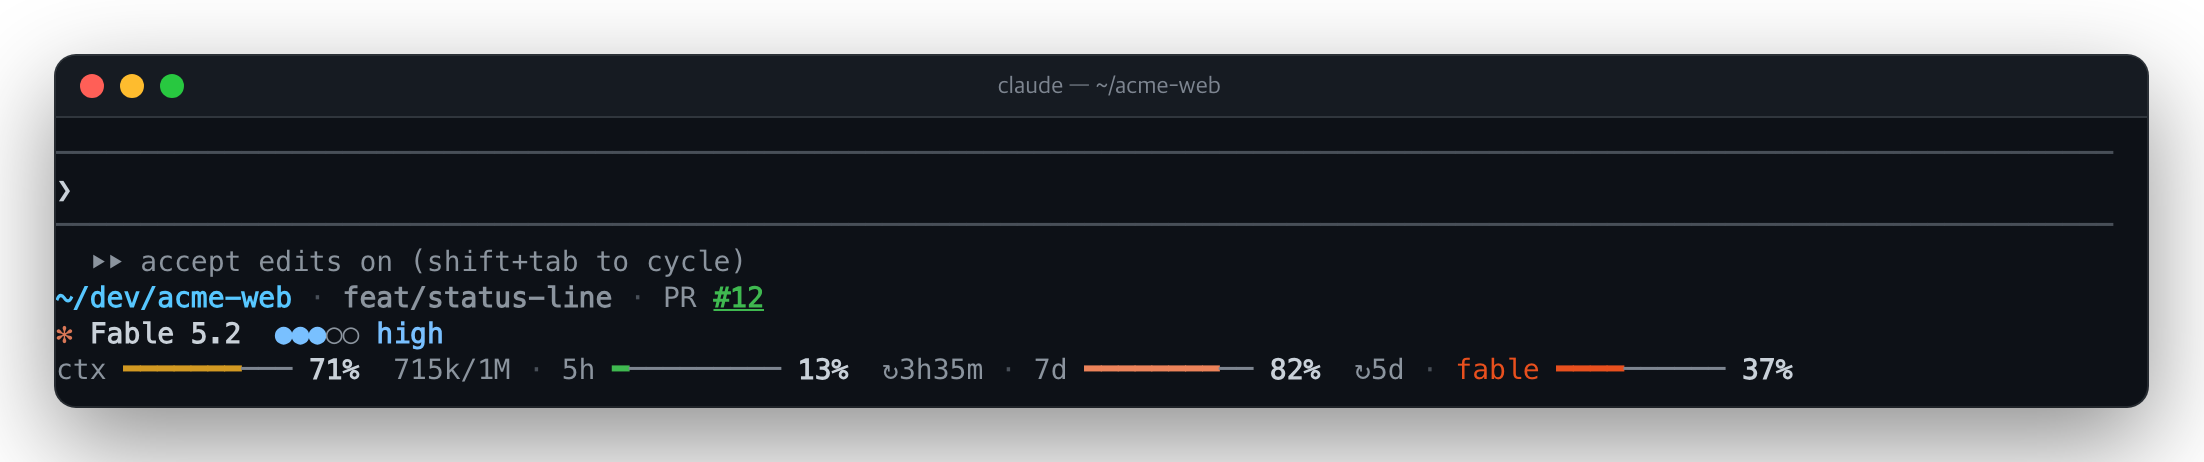
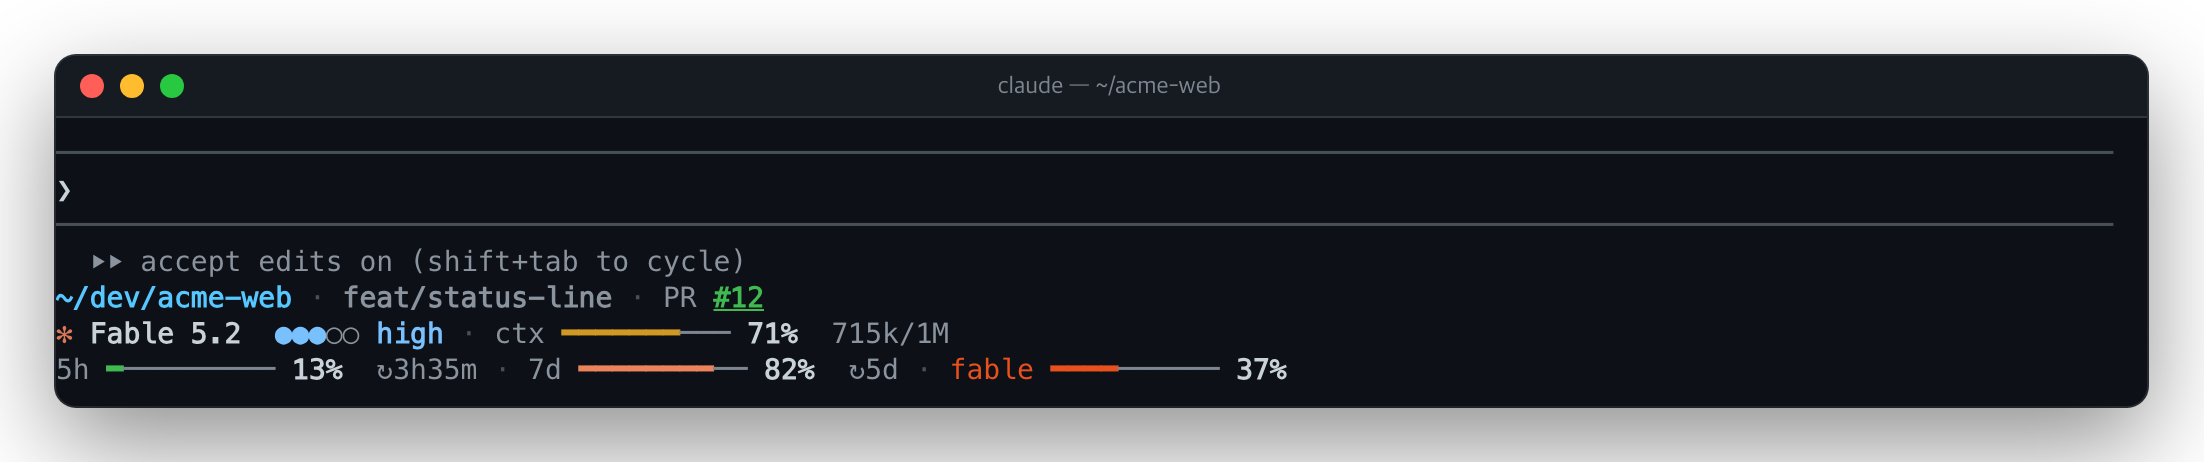
feat(status-line): the context meter beside the model and effort (0.2.0)
The model row now carries the context window; the plan's limits (five-hour,
weekly, Fable) stack under it. As the width narrows the context meter is drawn
shorter, then without its tokens, and with no room beside the model it leads
the limits below.

Changed region(s): [[0.0309, 0.697, 0.833, 0.8182]]

diff --git a/mods/status-line/tests/status-line.test.tsx b/mods/status-line/tests/status-line.test.tsx
@@ -24,9 +24,9 @@ const OID = '1234567890abcdef1234567890abcdef12345678'
 const PR_URL = 'https://github.com/acme/acme-web/pull/12'
 
 const LIMITS = '5h ━━━─────── 28%  ↻2h13m · 7d ━━━━────── 42%  ↻3d'
-const HEAD_ROW = '✻ Opus 5.5  effort ?'
 const CONTEXT = 'ctx ━━──────── 23%  46k/200k'
-const METERS_ROW = `${CONTEXT} · ${LIMITS}`
+const HEAD_ROW = `✻ Opus 5.5  effort ? · ${CONTEXT}`
+const METERS_ROW = LIMITS
 const FEATURE_STATUS = [
   `# branch.oid ${OID}`,
   '# branch.head feature/bar',
@@ -182,15 +182,15 @@ describe('the line under the prompt', () => {
     const { clock } = setUp(on, { settings: { effortLevel: 'medium' } })
     await $.session.start(START)
     await clock.settle()
-    expect((await rows($))[0]).toBe('✻ Opus 5.5  ●●○○○ medium')
+    expect((await rows($))[0]).toStartWith('✻ Opus 5.5  ●●○○○ medium · ctx ')
 
     await step($, { effort: 'max' })
     await clock.settle()
-    expect((await rows($))[0]).toBe('✻ Opus 5.5  ●●●●● max')
+    expect((await rows($))[0]).toStartWith('✻ Opus 5.5  ●●●●● max · ctx ')
 
     await step($, { effort: 'low', agentId: 'sub-1' })
     await clock.settle()
-    expect((await rows($))[0]).toBe('✻ Opus 5.5  ●●●●● max')
+    expect((await rows($))[0]).toStartWith('✻ Opus 5.5  ●●●●● max · ctx ')
   })
 
   test('the line /effort leaves shows before the next request', async ($, on) => {
@@ -207,7 +207,7 @@ describe('the line under the prompt', () => {
       uuid: 'row-effort',
     })
     await clock.settle()
-    expect((await rows($))[0]).toBe('✻ Opus 5.5  ●●●○○ high')
+    expect((await rows($))[0]).toStartWith('✻ Opus 5.5  ●●●○○ high · ctx ')
   })
 
   test('a new measurement moves the bars', async ($, on) => {
@@ -217,7 +217,7 @@ describe('the line under the prompt', () => {
     world.usage = usageOf(184_000)
     await $.session.measure({ context: world.usage.context, rateLimits: world.usage.rateLimits, changed: ['context'] })
     await clock.settle()
-    expect((await rows($))[1]).toStartWith('ctx ━━━━━━━━━─ 92% !  184k/200k · ')
+    expect((await rows($))[0]).toEndWith(' · ctx ━━━━━━━━━─ 92% !  184k/200k')
   })
 
   test('the countdown moves as minutes pass', async ($, on) => {
@@ -248,19 +248,18 @@ describe('the line under the prompt', () => {
     expect(await rows($)).toEqual([HEAD_ROW, METERS_ROW])
   })
 
-  test('the meters take more rows as the width narrows, and never overflow', async ($, on) => {
+  test('the rows give way as the width narrows, and never overflow', async ($, on) => {
     const { clock } = setUp(on)
     await $.session.start(START)
     await clock.settle()
-    // One row is kept as long as it can be: shorter bars first, then the detail goes.
-    expect(await rows($, { columns: 70 })).toEqual([HEAD_ROW, 'ctx ━───── 23%  46k/200k · 5h ━━──── 28%  ↻2h13m · 7d ━━━─── 42%  ↻3d'])
-    expect(await rows($, { columns: 60 })).toEqual([HEAD_ROW, 'ctx ━───── 23% · 5h ━━──── 28% · 7d ━━━─── 42%'])
-    expect(await rows($, { columns: 44 })).toEqual([HEAD_ROW, 'ctx ━─── 23% · 5h ━─── 28% · 7d ━━── 42%'])
-    // Then two rows.
-    expect(await rows($, { columns: 36 })).toEqual([HEAD_ROW, 'ctx ━───── 23% · 5h ━━──── 28%', '7d ━━━─── 42%'])
-    // Then a row for each meter.
-    expect(await rows($, { columns: 20 })).toEqual([HEAD_ROW, 'ctx ━───── 23%', '5h ━━──── 28%', '7d ━━━─── 42%'])
-    for (const columns of [50, 40, 30, 24, 20]) {
+    const MODEL = '✻ Opus 5.5  effort ?'
+    // The context meter stays beside the model while any drawing of it fits: shorter, then without its detail.
+    expect(await rows($, { columns: 70 })).toEqual([HEAD_ROW, LIMITS])
+    expect(await rows($, { columns: 40 })).toEqual([`${MODEL} · ctx ━───── 23%`, '5h ━━──── 28% · 7d ━━━─── 42%'])
+    // With no room beside the model it leads the meters below.
+    expect(await rows($, { columns: 30 })).toEqual([MODEL, 'ctx ━───── 23% · 5h ━━──── 28%', '7d ━━━─── 42%'])
+    expect(await rows($, { columns: 20 })).toEqual([MODEL, 'ctx ━───── 23%', '5h ━━──── 28%', '7d ━━━─── 42%'])
+    for (const columns of [70, 50, 40, 30, 24, 20]) {
       for (const row of await rows($, { columns })) expect(textWidth(row)).toBeLessThanOrEqual(columns)
     }
   })
@@ -271,7 +270,7 @@ describe('the line under the prompt', () => {
     await clock.settle()
     for (const surface of ['mobile', 'vscode'] as const) {
       const drawnRows = await rows($, { surface, columns: 36 })
-      expect(drawnRows).toEqual(['~/dev/acme-web · feature/a-long-bra…', HEAD_ROW, 'ctx ━───── 23% · 5h ━━──── 28%', '7d ━━━─── 42%'])
+      expect(drawnRows).toEqual(['~/dev/acme-web · feature/a-long-bra…', '✻ Opus 5.5  effort ? · ctx ━─── 23%', '5h ━━──── 28% · 7d ━━━─── 42%'])
       for (const row of drawnRows) expect(textWidth(row)).toBeLessThanOrEqual(36)
     }
     const tree = JSON.stringify(await drawn($, { surface: 'mobile', columns: 36 }))
@@ -500,7 +499,7 @@ describe('parts', () => {
 
   test('a session with no limits and no reading yet still draws', async () => {
     const usage: Usage = { model: 'claude-fable-5-2', context: { window: 1_000_000 }, minute: 0 }
-    expect(usageRows(usage, { kind: 'none' }, undefined, 120, NOW).map(rowText)).toEqual(['✻ Fable 5.2', 'ctx ────────── —  —/1M'])
+    expect(usageRows(usage, { kind: 'none' }, undefined, 120, NOW).map(rowText)).toEqual(['✻ Fable 5.2 · ctx ────────── —  —/1M'])
   })
 
   test('formats', async () => {

diff --git a/mods/status-line/hooks/layout.ts b/mods/status-line/hooks/layout.ts
@@ -1,5 +1,5 @@
-// The rows under the prompt as runs of styled text: a git row, the model and its effort, then the
-// meters, which take more rows as the surface narrows.
+// The rows under the prompt as runs of styled text: a git row, the model with its effort and context
+// window, then the plan's limits, which take more rows as the surface narrows.
 import type { Effort, Git, LimitWindow, PullRequest, Usage } from '../types'
 import { EFFORT_LEVELS } from './effort'
 import type { ResetStyle } from './format'
@@ -102,9 +102,18 @@ function pack(meters: readonly Span[][], columns: number): Span[][] {
 
 const fits = (rows: readonly Span[][], columns: number) => rows.every(row => rowWidth(row) <= columns)
 
-// The model and its effort on a row of their own, the meters stacked under it. The meters take as few
-// rows as the width allows, and among those the widest drawing: one row with long bars on a wide
-// terminal, down to a short bar per row on a phone.
+// Meters in as few rows as the width allows and, among those, the widest drawing.
+function stack(meters: readonly Meter[], columns: number): Span[][] {
+  if (meters.length === 0) return []
+  const packings = VARIANTS.map(variant => pack(meters.map(meter => meterSpans(meter, variant)), columns))
+  const fitting = packings.filter(rows => fits(rows, columns))
+  const fewest = Math.min(...fitting.map(rows => rows.length))
+  return fitting.find(rows => rows.length === fewest) ?? packings.at(-1) ?? []
+}
+
+// The model, its effort and the context window on one row, the plan's limits stacked under it: one
+// row with long bars on a wide terminal, down to a short bar per row on a phone. Where the context
+// meter does not fit beside the model in any drawing, it leads the meters below.
 export function usageRows(
   usage: Usage,
   effort: Effort,
@@ -112,17 +121,15 @@ export function usageRows(
   columns: number,
   now: number,
 ): Span[][] {
-  const head = [span(`${T.mark} `, { color: T.brand }), span(prettyModel(usage.model), { weight: 'bold' }), ...effortSpans(effort)]
-  const meters = [
-    contextMeter(usage.context),
+  const model = [span(`${T.mark} `, { color: T.brand }), span(prettyModel(usage.model), { weight: 'bold' }), ...effortSpans(effort)]
+  const context = contextMeter(usage.context)
+  const limits = [
     ...(usage.fiveHour ? [limitMeter('5h', usage.fiveHour, now, 'minutes')] : []),
     ...(usage.sevenDay ? [limitMeter('7d', usage.sevenDay, now, 'hours')] : []),
     ...(fable ? [fableMeter(fable, usage.sevenDay, now)] : []),
   ]
-  const packings = VARIANTS.map(variant => pack(meters.map(meter => meterSpans(meter, variant)), columns))
-  const fitting = packings.filter(rows => fits(rows, columns))
-  const fewest = Math.min(...fitting.map(rows => rows.length))
-  return [head, ...(fitting.find(rows => rows.length === fewest) ?? packings.at(-1) ?? [])]
+  const head = VARIANTS.map(variant => join([model, meterSpans(context, variant)])).find(row => rowWidth(row) <= columns)
+  return head === undefined ? [model, ...stack([context, ...limits], columns)] : [head, ...stack(limits, columns)]
 }
 
 // Only the number carries the state's color; the whole of it opens the pull request.

diff --git a/mods/status-line/hooks/register.tsx b/mods/status-line/hooks/register.tsx
@@ -1,6 +1,6 @@
 // status-line: a status line under the prompt.
-//   Below the engine's own hint line it draws a git row (path · branch · pull request) and a usage
-//   row (model and effort, the context window, the five-hour and weekly plan limits, Fable's own),
+//   Below the engine's own hint line it draws a git row (path · branch · pull request), a model row
+//   (model, effort and the context window) and the plan's limits under it (five-hour, weekly, Fable's own),
 //   each limit as a bar whose color follows what is left. The rows fold as the terminal narrows.
 //   Figures come from the engine ($.session.usage), the repository from git, the pull request from gh,
 //   the Fable limit from the plan's usage endpoint.

diff --git a/mods/status-line/README.en.md b/mods/status-line/README.en.md
@@ -12,9 +12,9 @@ limits is used, always in view.
 ```
   ⏵⏵ accept edits on (shift+tab to cycle)            ← Claude Code's own hint line (kept)
   ~/dev/acme-web · feat/status-line · PR #12         ← git row
-  ✻ Fable 5.2  ●●●○○ high                            ← model row
-  ctx ━━━━━━━─── 71%  715k/1M · 5h ━───────── 13%  ↻3h35m · 7d ━━━━━━━━── 82%  ↻5d · fable ━━━━────── 37%
-                                                     ← meter row
+  ✻ Fable 5.2  ●●●○○ high · ctx ━━━━━━━─── 71%  715k/1M        ← model row
+  5h ━───────── 13%  ↻3h35m · 7d ━━━━━━━━── 82%  ↻5d · fable ━━━━────── 37%
+                                                     ← limits row
 ```
 
 | Row | Item | What it is |
@@ -23,9 +23,9 @@ limits is used, always in view.
 | git | branch | `(commit)` on a detached HEAD; an operation under way (a rebase, a merge, ...) as `(REBASING)` |
 | git | pull request | The branch's pull request number; its color is the state, and pressing it opens the page |
 | model | model, effort | The model's name and its effort on five steps (`●●●○○ high`) |
-| meter | `ctx` | The context window's fill, and `tokens used/window size` |
-| meter | `5h`, `7d` | The five-hour and weekly limits, with the time to their reset (`↻3h35m`) |
-| meter | `fable` | The Fable-only weekly limit, while the model is Fable |
+| model | `ctx` | The context window's fill, and `tokens used/window size` |
+| limits | `5h`, `7d` | The five-hour and weekly limits, with the time to their reset (`↻3h35m`) |
+| limits | `fable` | The Fable-only weekly limit, while the model is Fable |
 
 Outside a repository there is no git row.
 
@@ -38,14 +38,14 @@ Outside a repository there is no git row.
 
 ### Fitted to the width
 
-The meters stack under the model row, in as few rows as the width allows and, among those, the widest drawing.
+The limits stack under the model row, in as few rows as the width allows and, among those, the widest drawing.
 
-| Width | Meters |
-| --- | --- |
-| Wide | one row, long bars with their detail (tokens, time left) |
-| Narrower | one row with shorter bars, then without the detail |
-| Narrow | two rows |
-| Very narrow | a row per meter |
+| Width | `ctx` on the model row | Limits |
+| --- | --- | --- |
+| Wide | a long bar with the tokens | one row, long bars with the time left |
+| Narrower | a shorter bar, then without the tokens | one row with shorter bars, then without the time left |
+| Narrow | with no room beside the model, it leads the limits | two rows |
+| Very narrow | the same | a row per meter |
 
 The git row cuts the branch name, then the start of the path (`…/acme-web`), and drops the pull request last. Hangul
 counts two cells.

diff --git a/mods/status-line/README.md b/mods/status-line/README.md
@@ -11,9 +11,9 @@
 ```
   ⏵⏵ accept edits on (shift+tab to cycle)            ← Claude Code의 힌트 줄 (그대로)
   ~/dev/acme-web · feat/status-line · PR #12         ← git 줄
-  ✻ Fable 5.2  ●●●○○ high                            ← 모델 줄
-  ctx ━━━━━━━─── 71%  715k/1M · 5h ━───────── 13%  ↻3h35m · 7d ━━━━━━━━── 82%  ↻5d · fable ━━━━────── 37%
-                                                     ← 미터 줄
+  ✻ Fable 5.2  ●●●○○ high · ctx ━━━━━━━─── 71%  715k/1M        ← 모델 줄
+  5h ━───────── 13%  ↻3h35m · 7d ━━━━━━━━── 82%  ↻5d · fable ━━━━────── 37%
+                                                     ← 한도 줄
 ```
 
 | 줄 | 항목 | 설명 |
@@ -22,9 +22,9 @@
 | git | 브랜치 | HEAD가 떨어지면 `(커밋)`, 리베이스 · 병합 등 진행 중이면 `(REBASING)`처럼 표시 |
 | git | PR | 브랜치의 PR 번호. 색이 상태이고, 누르면 브라우저에서 열림 |
 | 모델 | 모델 · effort | 모델 이름과 effort 5단계(`●●●○○ high`) |
-| 미터 | `ctx` | 컨텍스트 사용률과 `쓴 토큰/창 크기` |
-| 미터 | `5h` · `7d` | 5시간 · 주간 한도 사용률과 초기화까지 남은 시간(`↻3h35m`) |
-| 미터 | `fable` | Fable 전용 주간 한도. 모델이 Fable일 때만 |
+| 모델 | `ctx` | 컨텍스트 사용률과 `쓴 토큰/창 크기` |
+| 한도 | `5h` · `7d` | 5시간 · 주간 한도 사용률과 초기화까지 남은 시간(`↻3h35m`) |
+| 한도 | `fable` | Fable 전용 주간 한도. 모델이 Fable일 때만 |
 
 저장소 밖에서는 git 줄이 없어요.
 
@@ -37,14 +37,14 @@
 
 ### 폭에 맞는 배치
 
-모델 줄 아래에 미터가 쌓입니다. 미터는 폭이 허락하는 가장 적은 줄 수로, 그 안에서 가장 넓게 그려요.
+모델 줄 아래에 한도 미터가 쌓입니다. 한도는 폭이 허락하는 가장 적은 줄 수로, 그 안에서 가장 넓게 그려요.
 
-| 폭 | 미터 |
-| --- | --- |
-| 넓음 | 한 줄에 긴 바와 상세(토큰 · 남은 시간) |
-| 조금 좁음 | 한 줄에 짧은 바, 그다음엔 상세를 뺌 |
-| 좁음 | 두 줄 |
-| 아주 좁음 | 미터마다 한 줄 |
+| 폭 | 모델 줄의 `ctx` | 한도 줄 |
+| --- | --- | --- |
+| 넓음 | 긴 바와 토큰 수 | 한 줄에 긴 바와 남은 시간 |
+| 조금 좁음 | 짧은 바, 그다음엔 토큰 수를 뺌 | 한 줄에 짧은 바, 그다음엔 남은 시간을 뺌 |
+| 좁음 | 모델 옆에 자리가 없으면 한도 줄 맨 앞으로 | 두 줄 |
+| 아주 좁음 | 〃 | 미터마다 한 줄 |
 
 git 줄은 브랜치 이름, 경로 앞부분(`…/acme-web`) 순으로 줄이고 마지막에 PR을 뺍니다. 한글은 2칸으로 계산해요.
 

diff --git a/README.md b/README.md
@@ -154,9 +154,9 @@ claude plugin install status-line@ray-claude-code-mods
 
 <img src="images/status-line.png" alt="status-line" width="100%">
 
-- **모델 줄과 미터**: 모델과 effort, 그 아래 컨텍스트 · 5시간 · 주간 · Fable 한도를 남은 양에 따라 색이 바뀌는 바로.
+- **모델 줄과 한도**: 모델 · effort · 컨텍스트가 한 줄, 그 아래 5시간 · 주간 · Fable 한도. 바 색은 남은 양에 따라 바뀜.
 - **git 줄**: 전체 경로(`~/dev/acme-web`) · 브랜치 · 브랜치의 PR. PR 번호 색이 상태, 누르면 열림.
-- **폭에 맞춰 쌓임**: 모델 · effort 한 줄 아래 미터가 쌓이고, 좁아지면 바를 줄이고 줄을 늘려요. 모바일에서도 넘치지 않게.
+- **폭에 맞춰 쌓임**: 모델 줄 아래 한도 미터가 쌓이고, 좁아지면 바를 줄이고 줄을 늘려요. 모바일에서도 넘치지 않게.
 
 [자세히 보기 →](mods/status-line)
 

diff --git a/README.en.md b/README.en.md
@@ -154,9 +154,9 @@ Start a new session, or type `/reload-plugins`, and they are ready.
 
 <img src="images/status-line.png" alt="status-line" width="100%">
 
-- **Model row and meters**: model and effort, and under them context and the five-hour, weekly and Fable limits as bars colored by what is left.
+- **Model row and limits**: model, effort and context on one row; under it the five-hour, weekly and Fable limits, each a bar colored by what is left.
 - **Git row**: the full path (`~/dev/acme-web`), the branch and the branch's pull request; the number's color is its state, and pressing it opens the page.
-- **Fitted to the width**: the meters stack under the model row, with shorter bars and more rows as it narrows; nothing overflows on a phone.
+- **Fitted to the width**: the limits stack under the model row, with shorter bars and more rows as it narrows; nothing overflows on a phone.
 
 [More →](mods/status-line/README.en.md)
 
